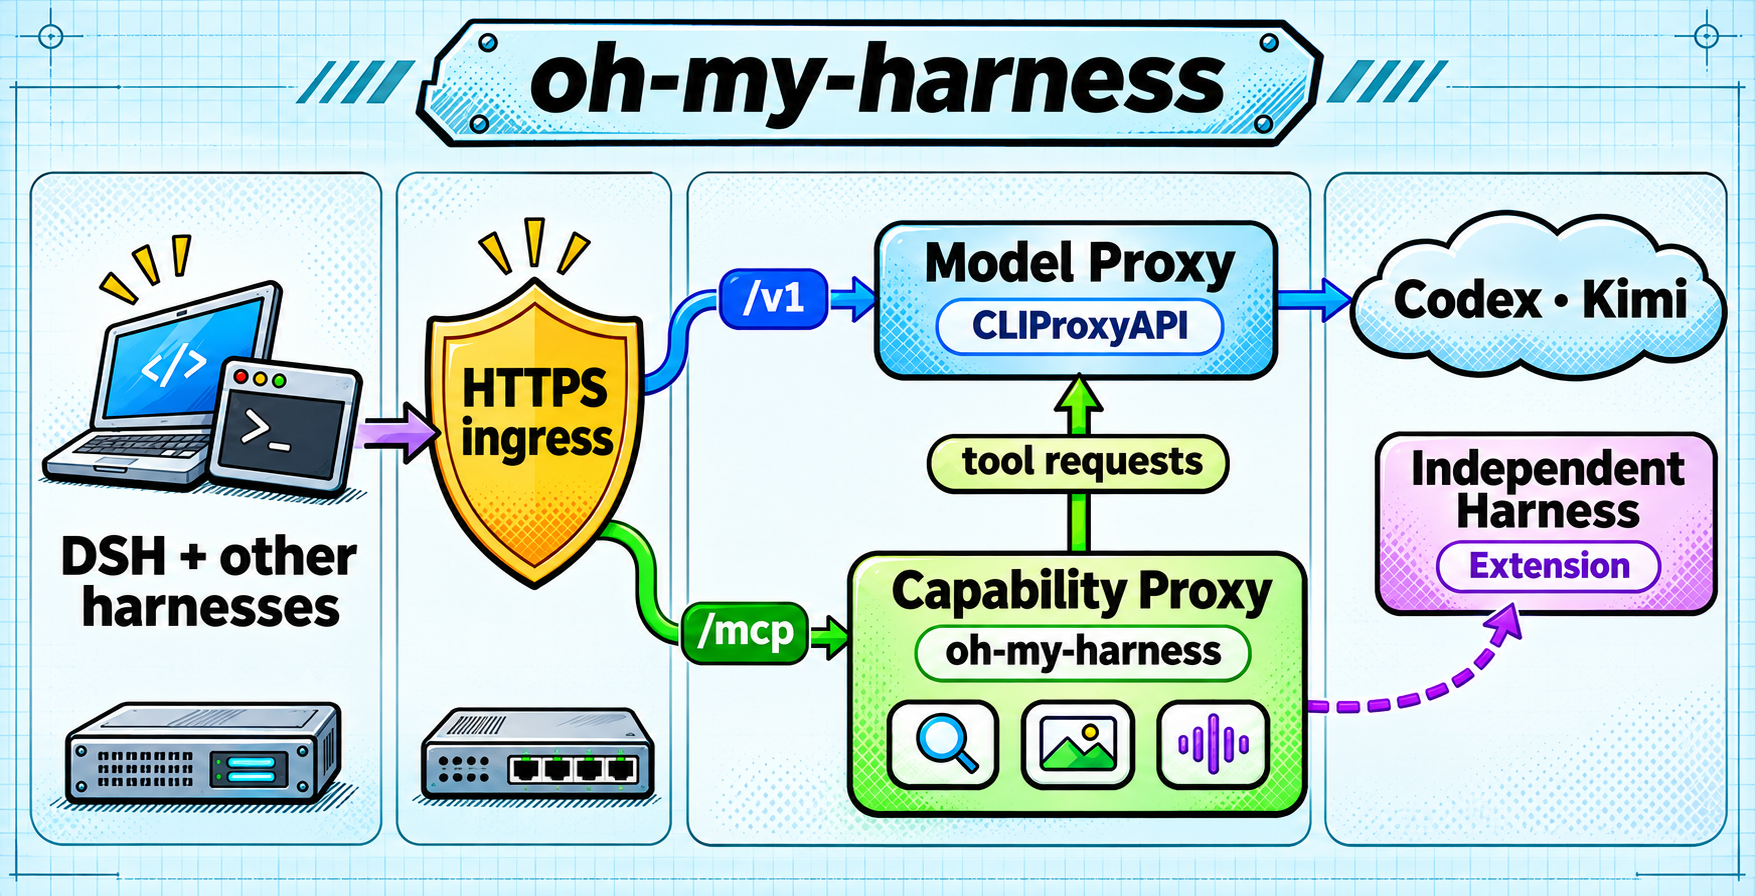
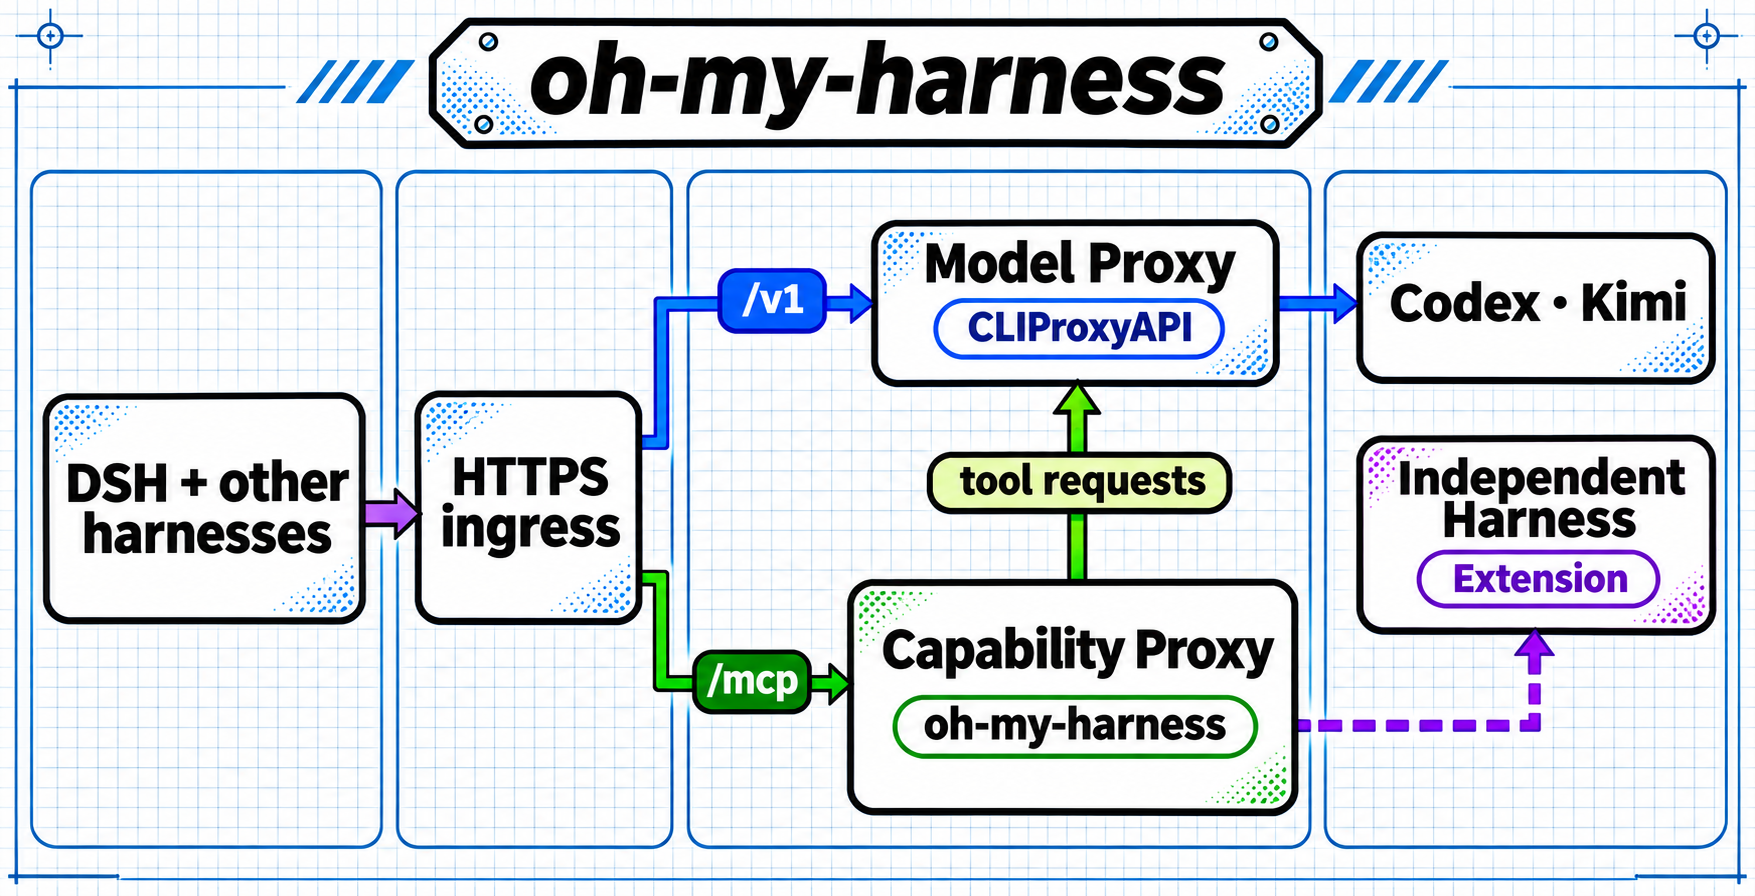
Refine the technical architecture comic

diff --git a/README.md b/README.md
@@ -4,7 +4,7 @@
 
 A harness that can call a model still needs to integrate each provider's web search, image, document, and speech interfaces. For example, Codex exposes search actions through Responses, while Kimi returns server search results through Messages. Implementing these integrations in every client repeats the routing, request handling, and result parsing.
 
-oh-my-harness packages capabilities from different sources as reusable MCP tools. In DSH, a conversation can use Kimi for reasoning and call Codex's `web_search` for a lookup with sources. The current release uses accounts you authorize in CLIProxyAPI, including paid agent subscriptions. The extension path uses a dedicated adapter in the Capability Proxy to call tools exposed by an independent harness directly. [Architecture](docs/architecture.md)
+oh-my-harness packages capabilities from different sources as reusable MCP tools. In DSH, a conversation can use Kimi for reasoning and call Codex's `web_search` for a lookup with sources. The current release uses accounts you authorize in CLIProxyAPI, including paid agent subscriptions. An independent harness is another upstream source. Connecting it directly requires a dedicated adapter in the Capability Proxy. [Architecture](docs/architecture.md)
 
 ![HTTPS ingress routes model and MCP requests separately. The Capability Proxy calls CLIProxyAPI and can be extended with a direct independent harness adapter.](docs/architecture.png)
 

diff --git a/docs/architecture.md b/docs/architecture.md
@@ -16,7 +16,7 @@ DSH sends conversation requests to CLIProxyAPI and tool requests to the Capabili
 | Provider-native tools | Capability Proxy calls CLIProxyAPI, which routes the request to the authorized provider | Included in the current release |
 | Independent harness tools | A dedicated adapter calls the harness's MCP or HTTP tool interface directly from the Capability Proxy | Extension path that requires an adapter |
 
-The included Codex search route requests a native Responses tool and the Kimi search route uses the Messages server tool. Search results are checked against upstream tool actions or result blocks. Audio tools use CLIProxyAPI's Realtime WebSocket route. A direct harness adapter would use the independent service's own tool contract and credentials. Both paths expose a tool contract at the same client-facing MCP endpoint. [Provider configuration and extension workflow](providers.md)
+The included Codex search route requests a native Responses tool and the Kimi search route uses the Messages server tool. Search results are checked against upstream tool actions or result blocks. Audio tools use CLIProxyAPI's Realtime WebSocket route. A direct harness adapter would use the independent service's own tool contract and credentials, then expose its tools through the same client-facing MCP endpoint. [Provider configuration and extension workflow](providers.md)
 
 ## Credentials and files
 
